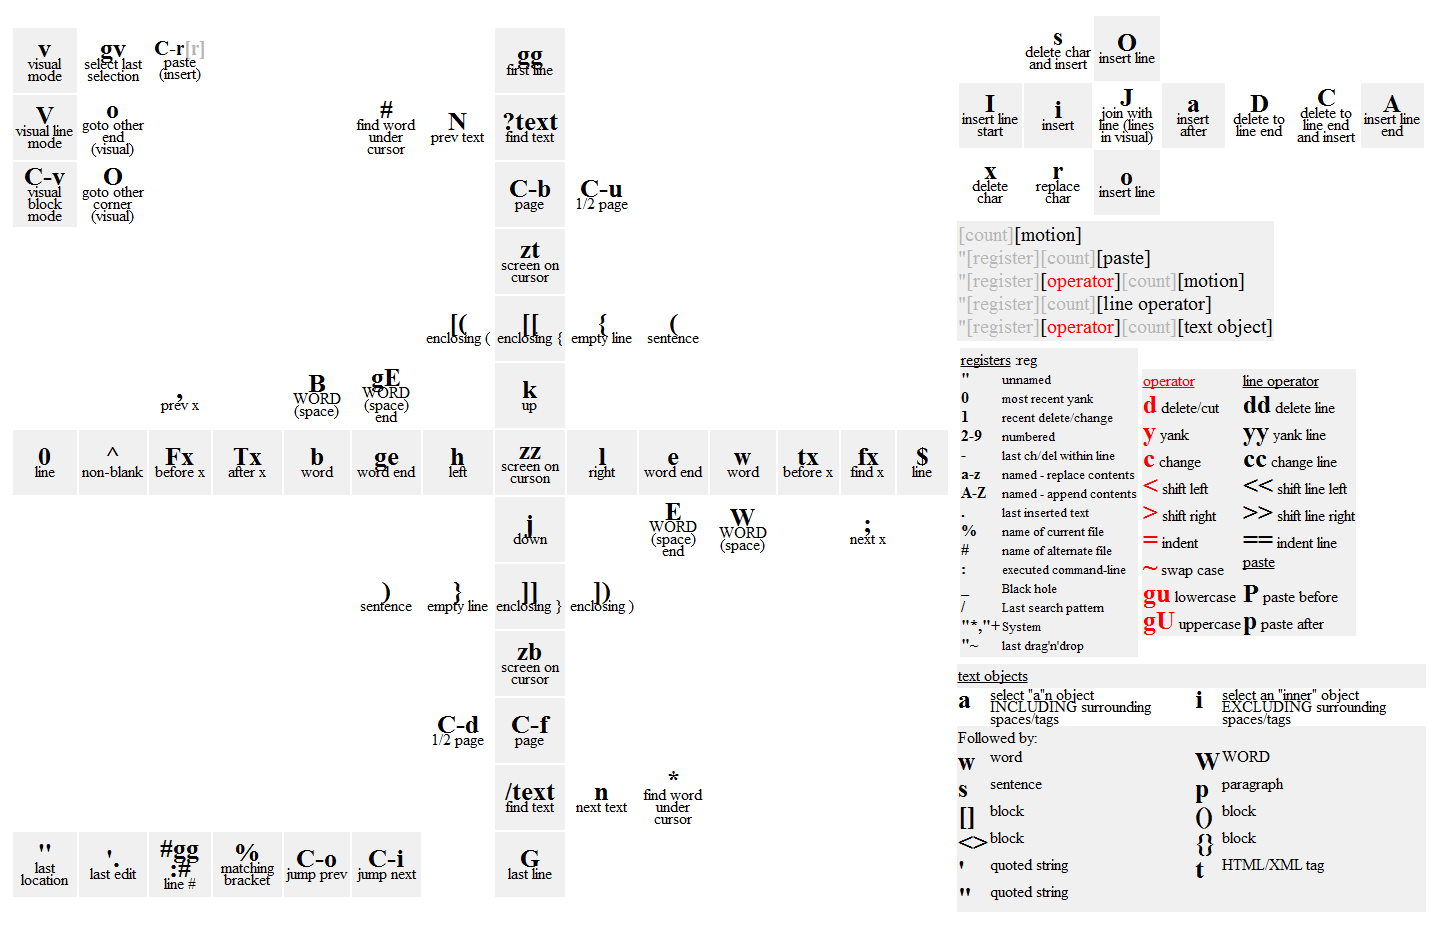
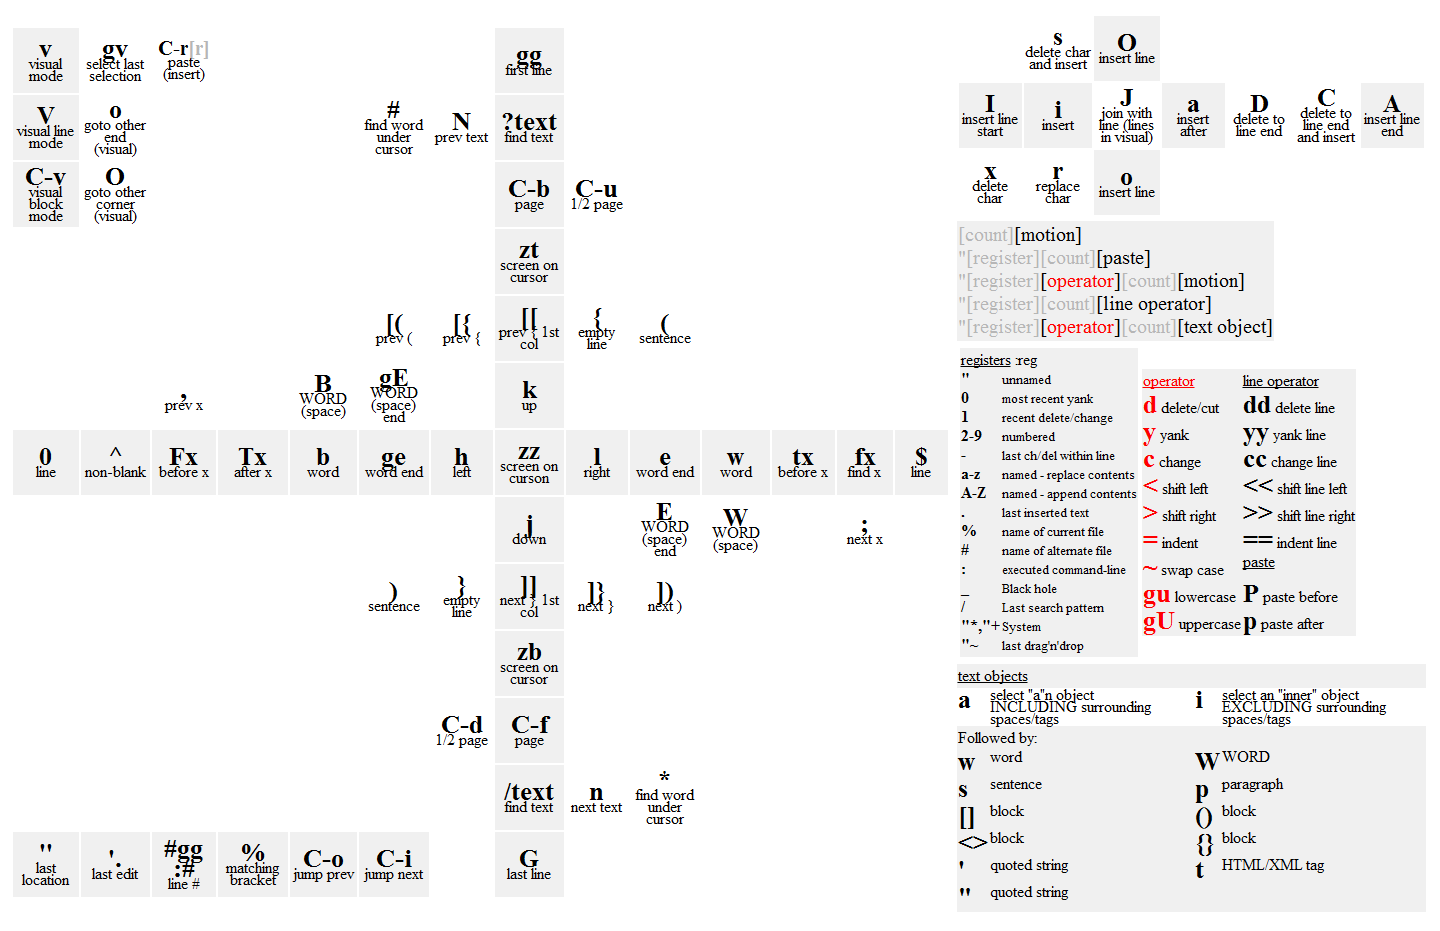
upd

diff --git a/vim_cheatsheet.html b/vim_cheatsheet.html
@@ -44,9 +44,10 @@
                     <td id="p01"><vimact>zt</vimact><br/><small>screen on cursor</small></td>
                 </tr>
                 <tr>
-                    <td/><td/><td/><td/><td/><td/>
-                    <td><vimact>[(</vimact><br/><small>enclosing (</small></td>
-                    <td id="p01"><vimact>[[</vimact><br/><small>enclosing {</small></td>
+                    <td/><td/><td/><td/><td/>
+                    <td><vimact>[(</vimact><br/><small>prev (</small></td>
+                    <td><vimact>[{</vimact><br/><small>prev {</small></td>
+                    <td id="p01"><vimact>[[</vimact><br/><small>prev { 1st col</small></td>
                     <td><vimact>{</vimact><br/><small>empty line</small></td>
                     <td><vimact>(</vimact><br/><small>sentence</small></td>
                 </tr>
@@ -89,8 +90,9 @@
                     <td/><td/><td/><td/><td/>
                     <td><vimact>)</vimact><br/><small>sentence</small></td>
                     <td><vimact>}</vimact><br/><small>empty line</small></td>
-                    <td id="p01"><vimact>]]</vimact><br/><small>enclosing }<small></td>
-                    <td><vimact>])</vimact><br/><small>enclosing )<small></td>
+                    <td id="p01"><vimact>]]</vimact><br/><small>next } 1st col<small></td>
+                    <td><vimact>]}</vimact><br/><small>next }<small></td>
+                    <td><vimact>])</vimact><br/><small>next )<small></td>
                 </tr>
                 <tr>
                     <td/><td/><td/><td/><td/><td/><td/>
